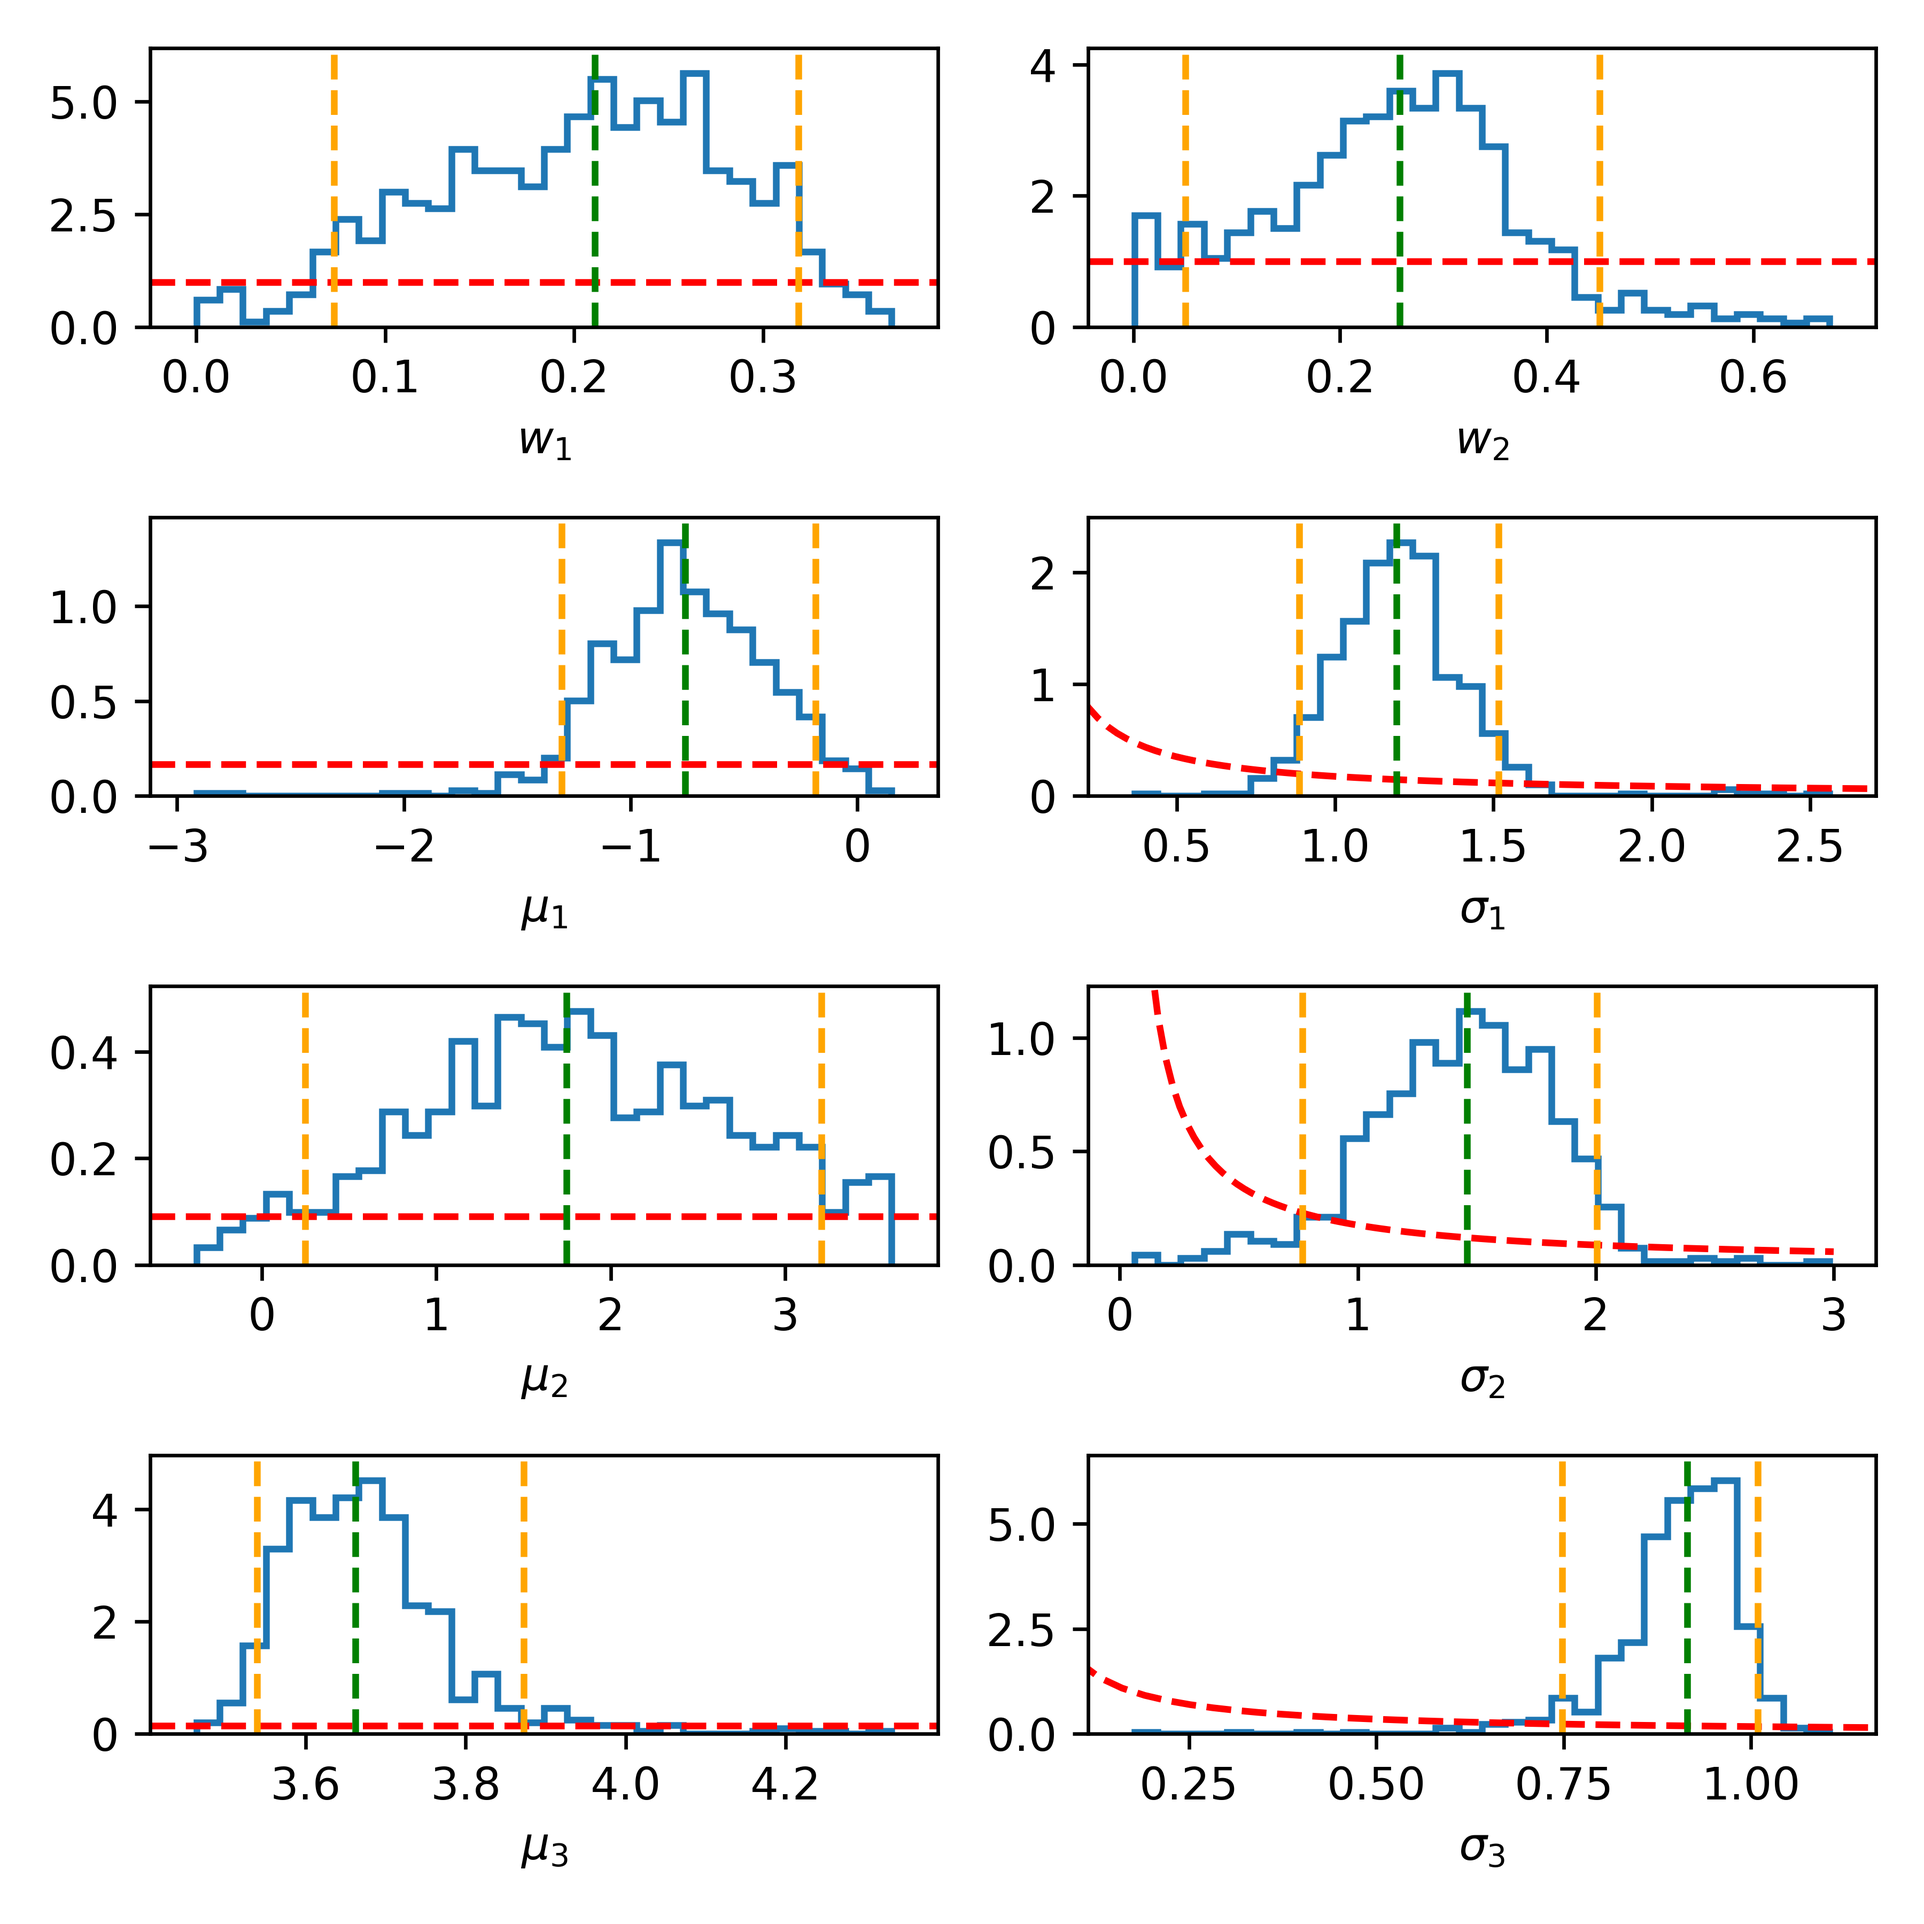
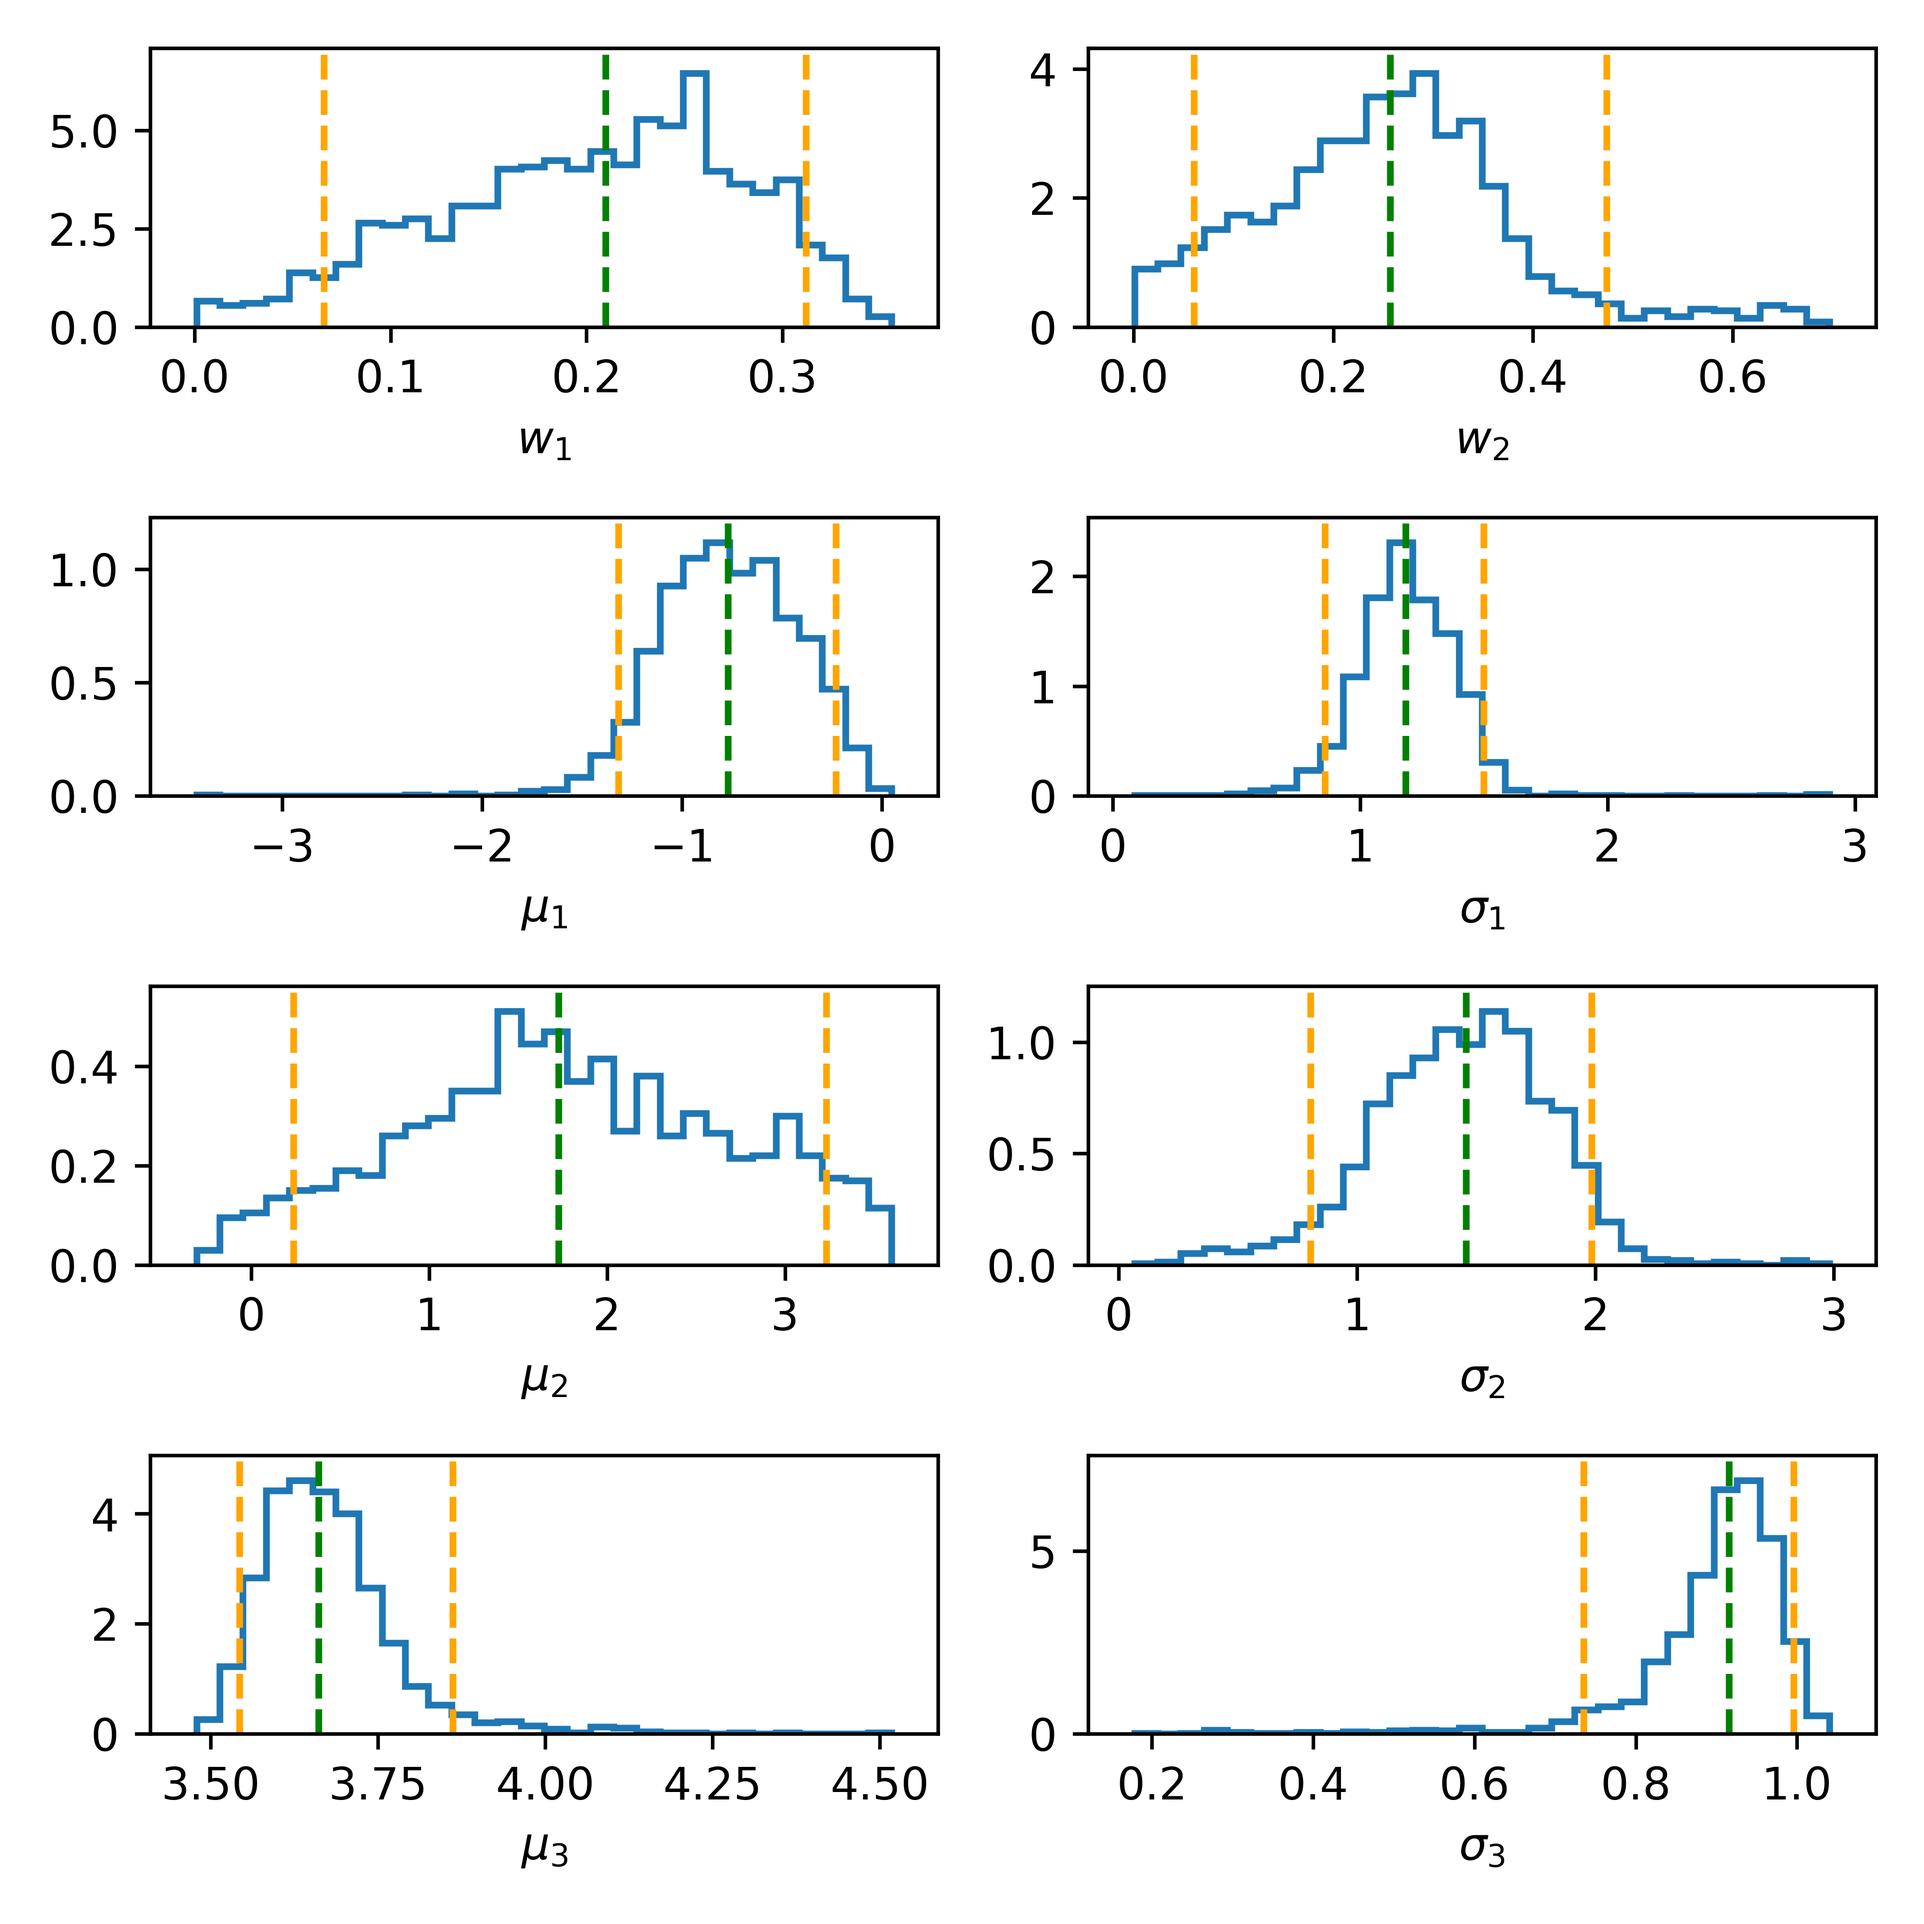
07/04: checked images for 4

diff --git a/GRB_class_4.py b/GRB_class_4.py
@@ -284,6 +284,7 @@ if __name__ == "__main__":
             ax = fig3.add_subplot(4, 2, i+2)
         counts_i, bins_i = np.histogram(parameters[:,i], bins = 30, density=True)
         ax.stairs(counts_i, bins_i, color = 'C0', label = 'Posterior samples', linewidth = 1.5)
+        """
         # plot the priors, Jeffrey for sigmas and uniform for others
         if i == 2 or i == 4 or i == 6:
             a = bounds3[i][0]
@@ -292,6 +293,7 @@ if __name__ == "__main__":
             ax.plot(ss, 1/(np.log(b/a) * ss), color = 'r', label = "Prior", linestyle='dashed')
         else:
             ax.axhline(1/(bounds3[i][1] - bounds3[i][0]), color = 'r', label = "Prior", linestyle='dashed')
+        """
         ax.axvline(par_val[i], color = 'g', label = "Median value", linestyle='dashed')
         ax.axvline(par_val[i]+d_par_plus[i], color = 'orange', linestyle='dashed')
         ax.axvline(par_val[i]-d_par_minus[i], color = 'orange', label = "90% confidence interval", linestyle='dashed')
@@ -339,7 +341,7 @@ if __name__ == "__main__":
     ax.set_ylim([0,170])
     ax.grid(linestyle = 'dashed')
     ax.set_axisbelow(True)
-    plt.legend(loc='upper right')
+    plt.legend(loc='upper left')
 
 
     # save the results

diff --git a/GRB_class_4_NS.py b/GRB_class_4_NS.py
@@ -147,11 +147,12 @@ if __name__ == "__main__":
     two_class_model = FunctionalModel(counts, center, weighted_log_normal, bounds2, name2)
     three_class_model = FunctionalModel(counts, center, three_weighted_log_normal, bounds3, name3)
 
-    run2  = True
-    run3  = True
+    run2  = False
+    run3  = False
     nlive = 2000
 
     if run2 == True:
+        print("Run with 2 classes")
         work = raynest.raynest(two_class_model, verbose=2,                  # model on which infer, output on screen and memory (how much the function speaks)
                                nnest=1,                                     # parallelize: number of parallel algorithm
                                nensemble=6, nslice=0, nhamiltonian=0,       # method of replacing the live points
@@ -161,6 +162,7 @@ if __name__ == "__main__":
         work.run()
 
     if run3 == True:
+        print("Run with 3 classes")
         work = raynest.raynest(three_class_model, verbose=2,
                                nnest=1,
                                nensemble=6, nslice=0, nhamiltonian=0,

diff --git a/GRB_class_1.py b/GRB_class_1.py
@@ -431,8 +431,8 @@ if __name__ == "__main__":
     
     # end of first point: show, save or close all the open figures
 
-    #plt.show()
-    #exit()
+    plt.show()
+    exit()
 
     fig1.savefig(main_dir+"\\Results\\1a\\Parameters_chain.png", dpi = 600)
     fig2.savefig(main_dir+"\\Results\\1a\\Parameters_chain_zoom.png", dpi = 600)

diff --git a/GRB_class_1b.py b/GRB_class_1b.py
@@ -422,8 +422,8 @@ if __name__ == "__main__":
 
     # end of point: save, show or close all the open figures
     
-    #plt.show()
-    #exit()
+    plt.show()
+    exit()
 
     fig0.savefig(main_dir+"\\Results\\1b\\Err_Dataset.png", dpi = 600)
     fig1.savefig(main_dir+"\\Results\\1b\\Err_Parameters_chain.png", dpi = 600)

diff --git a/GRB_class_1conf.py b/GRB_class_1conf.py
@@ -76,9 +76,8 @@ if __name__ == "__main__":
 
     # end of script: save the images or show and exit
     
-    #plt.show()
-    #exit()
-    
+    plt.show()
+    exit()
 
     path = main_dir+"\\Results\\1c"
     # Check if the results dir exists
